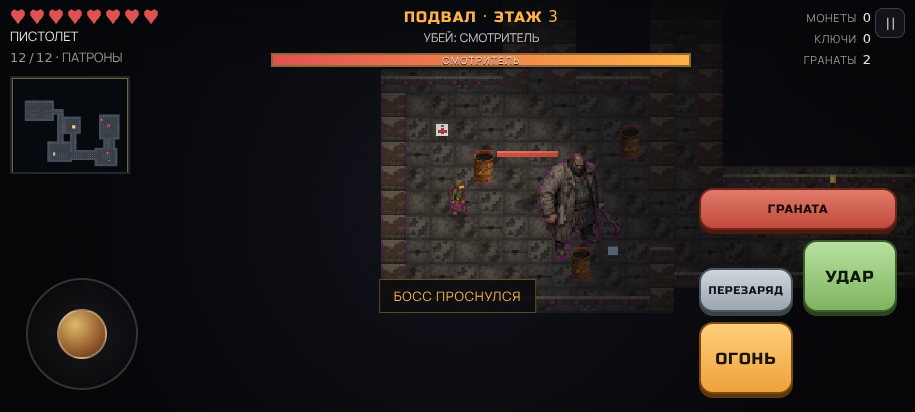
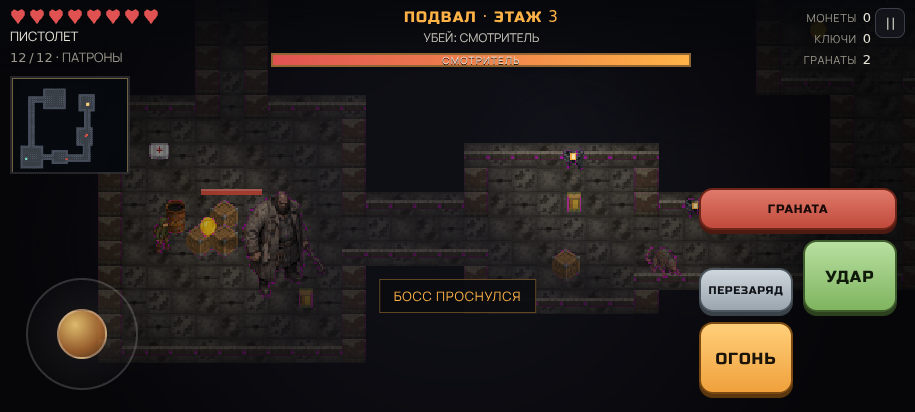
Спрайты: реквизит и предметы — 48 спрайтов, новые виды ящиков по локациям

diff --git a/src/engine.js b/src/engine.js
@@ -41,6 +41,21 @@ function carveCorridor(grid, w, ax, ay, bx, by, thickness = 1) {
 const overlaps = (a, b, pad) => a.x - pad < b.x + b.w && a.x + a.w + pad > b.x && a.y - pad < b.y + b.h && a.y + a.h + pad > b.y;
 const center = (room) => ({ x: Math.floor(room.x + room.w / 2), y: Math.floor(room.y + room.h / 2) });
 
+// Реквизит по локациям: в подвале ящики и покрышки, в больнице шкафчики,
+// на заводе бочки и металлолом. У каждого вида своя прочность.
+const PROP_KINDS = {
+  basement: ['crate', 'barrel', 'crate', 'box', 'tyres'],
+  hospital: ['crate', 'locker', 'box', 'barrel', 'locker'],
+  factory: ['barrel', 'tyres', 'crate', 'barrel', 'locker'],
+};
+const PROP_STATS = {
+  crate: { radius: 7, health: 3 },
+  barrel: { radius: 7, health: 3 },
+  box: { radius: 6, health: 1 },
+  locker: { radius: 7, health: 5 },
+  tyres: { radius: 8, health: 2 },
+};
+
 function generateLevel(game, locationIndex, slot) {
   const random = game.random;
   const location = LOCATIONS[locationIndex];
@@ -121,6 +136,7 @@ function generateLevel(game, locationIndex, slot) {
   };
 
   // Реквизит: в ящиках и бочках прячутся монеты, патроны, иногда ключи.
+  const propTable = PROP_KINDS[location.id] || PROP_KINDS.basement;
   const propRooms = rooms.filter((room) => !room.vault);
   for (const room of propRooms) {
     const count = 1 + Math.floor(random() * 4);
@@ -128,8 +144,9 @@ function generateLevel(game, locationIndex, slot) {
       const x = (room.x + 1 + Math.floor(random() * (room.w - 2))) * TILE + TILE / 2;
       const y = (room.y + 1 + Math.floor(random() * (room.h - 2))) * TILE + TILE / 2;
       if (distance(x, y, level.exit.x, level.exit.y) < 40) continue;
-      const kind = random() < .45 ? 'barrel' : 'crate';
-      level.props.push({ x, y, kind, radius: 7, health: 3, loot: random() });
+      const kind = propTable[Math.floor(random() * propTable.length)];
+      const stats = PROP_STATS[kind];
+      level.props.push({ x, y, kind, radius: stats.radius, health: stats.health, loot: random() });
     }
   }
 
@@ -564,7 +581,9 @@ function breakProp(game, prop) {
   if (prop.broken) return;
   prop.broken = true;
   burst(game, prop.x, prop.y, prop.kind === 'barrel' ? '#b3762f' : '#8a6a44', 12, 90, 2);
-  const roll = prop.loot;
+  // Шкафчик и коробка щедрее на полезное, покрышки чаще пустые.
+  const bias = prop.kind === 'locker' ? .25 : prop.kind === 'box' ? -.1 : prop.kind === 'tyres' ? .5 : 0;
+  const roll = Math.max(0, Math.min(1, prop.loot + bias));
   if (prop.key) game.level.pickups.push({ kind: 'key', x: prop.x, y: prop.y, bob: 0 });
   else if (roll < .3) for (let i = 0; i < 3; i += 1) game.level.pickups.push({ kind: 'coin', x: prop.x + (game.random() - .5) * 12, y: prop.y + (game.random() - .5) * 12, bob: game.random() * TAU });
   else if (roll < .55) game.level.pickups.push({ kind: 'ammo', x: prop.x, y: prop.y, bob: 0 });

diff --git a/tests/engine.test.js b/tests/engine.test.js
@@ -156,6 +156,27 @@ test('смерть босса открывает выход и не роняет
   assert.equal(game.doorOpen, true, 'после смерти босса выход открыт');
 });
 
+test('реквизит зависит от локации и бывает разных видов', () => {
+  const seen = { basement: new Set(), hospital: new Set(), factory: new Set() };
+  for (let loc = 0; loc < LOCATIONS.length; loc += 1) {
+    for (const seed of [3, 17, 55, 91, 233]) {
+      const game = createGame({ seed, locationIndex: loc, slot: 0, upgrades: {} });
+      for (const prop of game.level.props) seen[LOCATIONS[loc].id].add(prop.kind);
+    }
+  }
+  // В подвале ящики и покрышки, в больнице шкафчики, на заводе бочки и покрышки.
+  assert.ok(seen.basement.has('crate'), 'в подвале должны быть ящики');
+  assert.ok(seen.basement.has('tyres'), 'в подвале должны быть покрышки');
+  assert.ok(seen.hospital.has('locker'), 'в больнице должны быть шкафчики');
+  assert.ok(seen.factory.has('barrel'), 'на заводе должны быть бочки');
+  assert.ok(seen.factory.has('tyres'), 'на заводе должны быть покрышки');
+  // У каждого вида своя прочность, иначе реквизит будет одинаковым.
+  const game = createGame({ seed: 77, locationIndex: 1, slot: 0, upgrades: {} });
+  const kinds = new Map(game.level.props.map((prop) => [prop.kind, prop.health]));
+  if (kinds.has('locker')) assert.ok(kinds.get('locker') > 3, 'шкафчик должен быть прочным');
+  if (kinds.has('box')) assert.equal(kinds.get('box'), 1, 'коробка ломается с одного удара');
+});
+
 test('босс спит и сохраняет полное здоровье, пока игрок не подошёл', () => {
   const game = createGame({ seed: 4242, locationIndex: 0, slot: LOCATIONS[0].levels - 1, upgrades: {} });
   const boss = game.level.boss;

diff --git a/src/render.js b/src/render.js
@@ -239,6 +239,10 @@ function drawHeldWeapon(ctx, weapon, handX, handY, facing, swing, scale = 1) {
 }
 
 /* ---------- props and pickups ---------- */
+const PROP_SPRITE = {
+  crate: 'prop-crate', barrel: 'prop-barrel', box: 'prop-box',
+  locker: 'prop-locker', tyres: 'prop-tyres',
+};
 function drawProp(ctx, prop, palette) {
   if (prop.broken) {
     ctx.fillStyle = 'rgba(0,0,0,.35)';
@@ -246,11 +250,34 @@ function drawProp(ctx, prop, palette) {
     return;
   }
   const x = Math.round(prop.x), y = Math.round(prop.y);
-  const spriteName = prop.kind === 'barrel' ? 'prop-barrel' : 'prop-crate';
-  if (drawSprite(ctx, spriteName, x, y - 3, 22, { flip: Math.floor(prop.x) % 2 === 0 })) return;
+  const spriteName = PROP_SPRITE[prop.kind] || 'prop-crate';
+  // Покрышки ниже ящика, поэтому сажаем их чуть ближе к земле.
+  const lift = prop.kind === 'tyres' ? 1 : 3;
+  if (drawSprite(ctx, spriteName, x, y - lift, 22, { flip: Math.floor(prop.x) % 2 === 0 })) return;
   ctx.fillStyle = 'rgba(0,0,0,.3)';
   ctx.fillRect(x - 7, y + 4, 14, 3);
-  if (prop.kind === 'barrel') {
+  if (prop.kind === 'tyres') {
+    ctx.fillStyle = '#22242a';
+    ctx.fillRect(x - 8, y - 4, 16, 9);
+    ctx.fillStyle = '#33363d';
+    ctx.fillRect(x - 6, y - 3, 12, 7);
+    ctx.fillStyle = '#141519';
+    ctx.fillRect(x - 4, y - 1, 8, 4);
+  } else if (prop.kind === 'locker') {
+    ctx.fillStyle = '#6d7a80';
+    ctx.fillRect(x - 6, y - 11, 12, 16);
+    ctx.fillStyle = '#8b989e';
+    ctx.fillRect(x - 5, y - 10, 10, 14);
+    ctx.fillStyle = 'rgba(0,0,0,.35)';
+    ctx.fillRect(x - 1, y - 10, 1, 14);
+  } else if (prop.kind === 'box') {
+    ctx.fillStyle = palette.props[0];
+    ctx.fillRect(x - 6, y - 6, 12, 11);
+    ctx.fillStyle = 'rgba(255,255,255,.1)';
+    ctx.fillRect(x - 6, y - 6, 12, 2);
+    ctx.fillStyle = 'rgba(0,0,0,.25)';
+    ctx.fillRect(x - 1, y - 6, 2, 11);
+  } else if (prop.kind === 'barrel') {
     ctx.fillStyle = palette.props[0];
     ctx.fillRect(x - 5, y - 7, 10, 12);
     ctx.fillStyle = palette.props[1];
